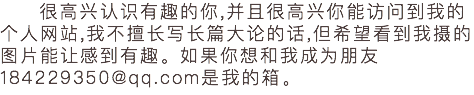
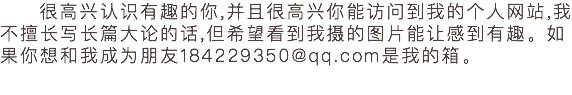
1

diff --git a/css/iningsun.css b/css/iningsun.css
@@ -1,1 +1,1 @@
-.version.iningsun{color:#000003;background-color:#815C4E;}#page{background-color:transparent;background-image:none;z-index:1;margin-left:auto;border-color:#000000;width:100%;border-width:0px;margin-right:auto;}#pu5481{z-index:24;}#u5481{background-color:transparent;z-index:24;position:relative;margin-right:-10000px;}#u5230-4{z-index:4;position:relative;margin-right:-10000px;}#u5230-4_img{vertical-align:top;display:block;}#u5169{background-color:transparent;z-index:2;position:relative;}#pu5271{z-index:8;}#u5271{background-color:transparent;z-index:8;position:relative;margin-right:-10000px;}#u5373{background-color:transparent;z-index:16;position:relative;margin-right:-10000px;}#u5391{background-color:transparent;z-index:18;position:relative;}#slideshowu5535{z-index:26;position:relative;margin-right:-10000px;}#u5553{background-color:transparent;width:100%;position:absolute;}#u5553popup{width:100%;z-index:27;}#u5558{background-color:transparent;z-index:28;position:relative;border-color:transparent;width:100%;border-width:0px;min-height:5px;margin-right:-10000px;}#u5865{background-color:transparent;z-index:30;position:relative;border-color:transparent;width:100%;border-width:0px;min-height:5px;margin-right:-10000px;}#u5952{background-color:transparent;z-index:32;position:relative;border-color:transparent;width:100%;border-width:0px;min-height:5px;margin-right:-10000px;}#u6102{background-color:transparent;z-index:34;position:relative;border-color:transparent;width:100%;border-width:0px;min-height:5px;margin-right:-10000px;}#u6177{background-color:transparent;z-index:36;position:relative;border-color:transparent;width:100%;border-width:0px;min-height:5px;margin-right:-10000px;}#u6252{background-color:transparent;z-index:38;position:relative;border-color:transparent;width:100%;border-width:0px;min-height:5px;margin-right:-10000px;}#u6466{background-color:transparent;z-index:40;position:relative;border-color:transparent;width:100%;border-width:0px;min-height:5px;margin-right:-10000px;}#u6541{background-color:transparent;z-index:42;position:relative;border-color:transparent;width:100%;border-width:0px;min-height:5px;margin-right:-10000px;}#u6791{background-color:transparent;z-index:44;position:relative;border-color:transparent;width:100%;border-width:0px;min-height:5px;margin-right:-10000px;}#u7127{background-color:transparent;z-index:46;position:relative;border-color:transparent;width:100%;border-width:0px;min-height:5px;margin-right:-10000px;}#pu5560-4{z-index:52;}#u5560-4popup{height:40px;z-index:52;margin-right:-10000px;}#u5543-4popup{height:40px;z-index:48;margin-right:-10000px;}#u5543-3{text-align:center;font-family:Helvetica, Helvetica Neue, Arial, sans-serif;line-height:20px;}#u5543{color:#999999;}#u5560-4,#u5543-4,#u5552-4{background-color:#FFFFFF;min-height:20px;border-color:transparent;padding-bottom:10px;width:100%;border-width:0px;position:absolute;padding-top:10px;}#u5552-4popup{height:40px;z-index:56;margin-right:-10000px;}#u5560-3,#u5552-3{line-height:20px;color:#999999;text-align:center;font-family:Helvetica, Helvetica Neue, Arial, sans-serif;}.SSFirstButton,.SSPreviousButton,.SSNextButton,.SSLastButton,.SSSlideLink,.SSCloseButton{cursor:pointer;}.SSSlideLoading{background:url("../images/loading.gif?crc=3815509949") no-repeat center center;}#u5321{background-color:transparent;z-index:60;position:relative;margin-right:-10000px;}#u5339{background-color:transparent;z-index:62;position:relative;margin-right:-10000px;}#u5481_img,#u5169_img,#u5271_img,#u5373_img,#u5391_img,#u5558_img,#u5865_img,#u5952_img,#u6102_img,#u6177_img,#u6252_img,#u6466_img,#u6541_img,#u6791_img,#u7127_img,#u5339_img{width:100%;}#u5306{background-color:#FFFFFF;z-index:64;position:relative;margin-right:-10000px;}#u5366-6{z-index:10;display:block;vertical-align:top;position:relative;}#u5418-4{background-color:transparent;z-index:20;font-size:10px;position:relative;line-height:12px;}.html{background-color:#FFFFFF;}body{position:relative;}@media (min-width: 1025px), print{#muse_css_mq{background-color:#FFFFFF;}#bp_infinity.active{display:block;}#page{min-height:1152px;max-width:1480px;}#ppu5481{z-index:0;margin-right:-10000px;margin-top:-76px;width:89.94%;margin-left:-5.28%;}#pu5481{width:64.69%;}#u5481{width:39.61%;}#u5169{margin-right:-10000px;margin-top:146px;width:14.17%;left:85.84%;}#pu5271{margin-top:26px;width:76.86%;margin-left:23.07%;}#u5271{margin-top:47px;width:91.21%;left:3.82%;}#u5391{-webkit-transform:matrix(0,-1,1,0,-144,169);-ms-transform:matrix(0,-1,1,0,-144,169);transform:matrix(0,-1,1,0,-144,169);margin-right:-10000px;margin-top:-131px;width:2.35%;left:48.39%;}#slideshowu5535{padding-bottom:0px;margin-top:46px;width:92.28%;left:3.82%;}#u5553popup{height:498px;}#pu5560-4{margin-top:34px;width:38.67%;margin-left:29.14%;}#u5560-4popup{width:21.37%;}#u5560-3{margin-left:12.78%;margin-right:12.779552715654951%;}#u5543-4popup{width:38.09%;margin-left:31.79%;}#u5543-3{margin-left:7.21%;margin-right:7.207207207207207%;}#u5552-4popup{width:22.74%;margin-left:77.27%;}#u5552-3{margin-left:12.02%;margin-right:12.012012012012011%;}#u5321{-webkit-transform:matrix(0.9945,-0.1045,0.1045,0.9945,-6,6);-ms-transform:matrix(0.9945,-0.1045,0.1045,0.9945,-6,6);transform:matrix(0.9945,-0.1045,0.1045,0.9945,-6,6);margin-top:23px;width:11.54%;left:0.88%;}#u5339{-webkit-transform:matrix(0.9945,-0.1045,0.1045,0.9945,-6,6);-ms-transform:matrix(0.9945,-0.1045,0.1045,0.9945,-6,6);transform:matrix(0.9945,-0.1045,0.1045,0.9945,-6,6);margin-top:437px;width:11.54%;left:87.98%;}#u5306{height:27px;-webkit-transform:matrix(0.6293,-0.7771,0.7771,0.6293,10,48);-ms-transform:matrix(0.6293,-0.7771,0.7771,0.6293,10,48);transform:matrix(0.6293,-0.7771,0.7771,0.6293,10,48);margin-top:38px;width:10.86%;left:-0.98%;}#u5366-6{margin-top:72px;width:35.62%;margin-left:42.83%;}#u5418-4{min-height:12px;margin-top:102px;width:18.04%;margin-left:6.62%;}#u5373{margin-top:314px;width:1.63%;left:84.67%;}#u5230-4{margin-top:24px;width:7.37%;left:88.38%;}#slideshowu5535_position_content,#u5321_img,#u5230-4_img{width:100%;}.css_verticalspacer .verticalspacer{height:calc(100vh - 1151px);}}@media (min-width: 769px) and (max-width: 1024px){#muse_css_mq{background-color:#000400;}#bp_1024.active{display:block;}#page{min-height:987.6000000000004px;padding-bottom:0px;max-width:1024px;}#page_position_content{margin-top:-62px;padding-bottom:75px;width:100%;}#pu5481{width:106.94%;margin-left:-8.11%;}#u5481{width:26.4%;}#u5169{margin-right:-10000px;margin-top:146px;width:11.24%;left:50.96%;}#u5230-4{margin-top:84px;width:12.61%;left:87.4%;}#pu5271{margin-top:44px;width:79.2%;margin-left:12.21%;}#u5271{margin-top:43px;width:90.26%;left:4.57%;}#u5373{margin-top:57px;width:2.47%;left:97.54%;}#u5391{-webkit-transform:matrix(0,-1,1,0,-160,187);-ms-transform:matrix(0,-1,1,0,-160,187);transform:matrix(0,-1,1,0,-160,187);margin-right:-10000px;margin-top:-153px;width:3.33%;left:48.96%;}#slideshowu5535{margin-top:43px;width:90.39%;left:4.44%;}#u5553popup{height:390px;}#pu5560-4{margin-top:13px;width:33.97%;margin-left:30.84%;}#u5560-4popup{width:23.3%;}#u5543-4popup{width:38.56%;margin-left:30.93%;}#u5543-3{margin-left:10.42%;margin-right:10.416666666666668%;}#u5552-4popup{width:23.3%;margin-left:77.11%;}#u5560-3,#u5552-3{margin-left:17.37%;margin-right:17.36111111111111%;}#u5321{-webkit-transform:matrix(0.9945,-0.1045,0.1045,0.9945,-4,4);-ms-transform:matrix(0.9945,-0.1045,0.1045,0.9945,-4,4);transform:matrix(0.9945,-0.1045,0.1045,0.9945,-4,4);margin-top:34px;width:10.12%;left:3.33%;}#u5230-4_img,#u5321_img{width:100%;}#u5339{-webkit-transform:matrix(0.9945,-0.1045,0.1045,0.9945,-4,4);-ms-transform:matrix(0.9945,-0.1045,0.1045,0.9945,-4,4);transform:matrix(0.9945,-0.1045,0.1045,0.9945,-4,4);margin-top:368px;width:10.12%;left:87.3%;}#u5306{height:40px;-webkit-transform:matrix(0.6293,-0.7771,0.7771,0.6293,0,40);-ms-transform:matrix(0.6293,-0.7771,0.7771,0.6293,0,40);transform:matrix(0.6293,-0.7771,0.7771,0.6293,0,40);margin-top:25px;width:10.24%;}#pu5418-4{z-index:20;margin-top:55px;width:74.13%;margin-left:1.18%;}#u5418-4{min-height:32px;margin-right:-10000px;margin-top:70px;width:21.88%;}#u5366-6{margin-right:-10000px;width:61.8%;left:38.21%;}.css_verticalspacer .verticalspacer{height:calc(100vh - 987px);}body{overflow-x:hidden;}}@media (min-width: 681px) and (max-width: 768px){#muse_css_mq{background-color:#000300;}#bp_768.active{display:block;}#page{min-height:855.5000000000005px;padding-bottom:0px;max-width:768px;}#page_position_content{margin-top:-43px;width:100%;}#pu5481{width:104.69%;margin-left:-7.04%;}#u5481{width:27%;}#u5169{margin-right:-10000px;margin-top:140px;width:12.57%;left:50.25%;}#u5230-4{margin-top:62px;width:12.94%;left:87.07%;}#u5230-4_img{width:99.04%;}#pu5271{margin-top:48px;width:94.8%;margin-left:4.04%;}#u5373{margin-top:58px;width:2.61%;left:96.43%;}#u5391{-webkit-transform:matrix(0,-1,1,0,-146,171);-ms-transform:matrix(0,-1,1,0,-146,171);transform:matrix(0,-1,1,0,-146,171);margin-right:-10000px;margin-top:-145px;width:3.44%;left:49.59%;}#u5271,#slideshowu5535{margin-top:30px;width:89.29%;left:4.95%;}#u5553popup{height:346px;}#pu5560-4{margin-top:24px;width:30.16%;margin-left:34.93%;}#u5560-4popup{width:21.94%;}#u5543-4popup{width:36.74%;margin-left:31.64%;}#u5543-3{margin-left:13.89%;margin-right:13.88888888888889%;}#u5552-4popup{width:21.94%;margin-left:78.07%;}#u5560-3,#u5552-3{margin-left:23.15%;margin-right:23.148148148148145%;}#u5321{-webkit-transform:matrix(0.9945,-0.1045,0.1045,0.9945,-5,6);-ms-transform:matrix(0.9945,-0.1045,0.1045,0.9945,-5,6);transform:matrix(0.9945,-0.1045,0.1045,0.9945,-5,6);margin-top:18px;width:13.88%;left:0.69%;}#u5321_img{padding-left:11.881188118811881%;padding-right:8.91089108910891%;padding-bottom:20.792079207920793%;width:79.21%;}#u5339{-webkit-transform:matrix(0.9945,-0.1045,0.1045,0.9945,-5,6);-ms-transform:matrix(0.9945,-0.1045,0.1045,0.9945,-5,6);transform:matrix(0.9945,-0.1045,0.1045,0.9945,-5,6);margin-top:305px;width:14.02%;left:85.31%;}#u5306{height:25px;-webkit-transform:matrix(0.6293,-0.7771,0.7771,0.6293,5,36);-ms-transform:matrix(0.6293,-0.7771,0.7771,0.6293,5,36);transform:matrix(0.6293,-0.7771,0.7771,0.6293,5,36);margin-top:26px;width:10.99%;left:-0.69%;}#u5366-6{margin-top:24px;width:38.55%;margin-left:32.43%;}#u5418-4{min-height:32px;margin-top:59px;width:16.28%;margin-left:1.18%;}.css_verticalspacer .verticalspacer{height:calc(100vh - 912px);}body{overflow-x:hidden;}}@media (min-width: 481px) and (max-width: 680px){#muse_css_mq{background-color:#0002a8;}#bp_680.active{display:block;}#page{min-height:855.5000000000005px;padding-bottom:0px;max-width:680px;}#page_position_content{margin-top:-43px;width:100%;}#pu5481{width:105.59%;margin-left:-7.06%;}#u5481{width:26.75%;}#u5169{margin-right:-10000px;margin-top:114px;width:11.56%;left:52.09%;}#u5230-4{margin-top:60px;width:12.82%;left:87.19%;}#u5230-4_img{width:98.92%;}#u5391{-webkit-transform:matrix(0,-1,1,0,-96,113);-ms-transform:matrix(0,-1,1,0,-96,113);transform:matrix(0,-1,1,0,-96,113);top:-58px;margin-bottom:-112px;width:2.36%;margin-left:51.33%;}#pu5271{margin-top:-31px;width:87.65%;margin-left:6.48%;}#u5271{margin-top:27px;width:90.78%;left:4.37%;}#u5373{margin-top:3px;width:2.69%;left:97.32%;}#slideshowu5535{padding-bottom:0px;margin-top:28px;width:90.78%;left:4.37%;}#u5553popup{height:320px;}#pu5560-4{margin-top:21px;width:33.46%;margin-left:34.02%;}#u5560-4popup{width:21%;}#u5543-4popup{width:35.36%;margin-left:32.6%;}#u5543-3{margin-left:15.69%;margin-right:15.686274509803921%;}#u5552-4popup{width:21%;margin-left:79.01%;}#u5560-3,#u5552-3{margin-left:26.15%;margin-right:26.143790849673206%;}#u5321{-webkit-transform:matrix(0.9945,-0.1045,0.1045,0.9945,-4,4);-ms-transform:matrix(0.9945,-0.1045,0.1045,0.9945,-4,4);transform:matrix(0.9945,-0.1045,0.1045,0.9945,-4,4);margin-top:15px;width:12.09%;left:1.68%;}#u5321_img{width:100%;}#u5339{-webkit-transform:matrix(0.9945,-0.1045,0.1045,0.9945,-3,3);-ms-transform:matrix(0.9945,-0.1045,0.1045,0.9945,-3,3);transform:matrix(0.9945,-0.1045,0.1045,0.9945,-3,3);margin-top:299px;width:9.07%;left:87.59%;}#u5306{height:27px;-webkit-transform:matrix(0.6293,-0.7771,0.7771,0.6293,-1,25);-ms-transform:matrix(0.6293,-0.7771,0.7771,0.6293,-1,25);transform:matrix(0.6293,-0.7771,0.7771,0.6293,-1,25);margin-top:15px;width:8.56%;left:0.17%;}#u5366-6{margin-top:32px;width:38.53%;margin-left:32.06%;}#u5418-4{min-height:32px;margin-top:75px;width:16.18%;margin-left:1.18%;}.css_verticalspacer .verticalspacer{height:calc(100vh - 912px);}body{overflow-x:hidden;}}@media (max-width: 480px){#muse_css_mq{background-color:#0001e0;}#bp_480.active{display:block;}#page{min-height:887.9500000000004px;padding-bottom:0px;max-width:480px;}#page_position_content{margin-top:-29px;padding-bottom:9px;width:100%;}#pu5481{width:103.96%;margin-left:-8.13%;}#u5481{width:32.67%;}#u5230-4{width:82px;margin-top:43px;left:83.57%;}#u5169{margin-top:3px;width:16.25%;margin-left:44.38%;}#pu5271{margin-top:57px;width:97.71%;margin-left:0.84%;}#u5271{margin-top:27px;width:92.54%;left:4.48%;}#u5373{margin-top:10px;width:2.56%;left:97.45%;}#u5391{-webkit-transform:matrix(0,-1,1,0,-107,125);-ms-transform:matrix(0,-1,1,0,-107,125);transform:matrix(0,-1,1,0,-107,125);margin-right:-10000px;margin-top:-106px;width:3.84%;left:48.41%;}#slideshowu5535{margin-top:27px;width:93.18%;left:3.84%;}#u5553popup{height:231px;}#pu5560-4{margin-top:59px;width:36.16%;margin-left:33.64%;}#u5560-4popup{width:17.09%;}#u5543-4popup{width:41.78%;margin-left:29.12%;}#u5543-3{margin-left:15.16%;margin-right:15.151515151515152%;}#u5552-4popup{width:17.09%;margin-left:82.92%;}#u5560-3,#u5552-3{margin-left:37.04%;margin-right:37.03703703703704%;}#u5321{margin-top:27px;width:8.53%;left:3.84%;}#u5321_img{width:100%;}#u5339{-webkit-transform:matrix(0.9945,-0.1045,0.1045,0.9945,-3,3);-ms-transform:matrix(0.9945,-0.1045,0.1045,0.9945,-3,3);transform:matrix(0.9945,-0.1045,0.1045,0.9945,-3,3);margin-top:217px;width:11.52%;left:88.06%;}#u5306{height:23px;-webkit-transform:matrix(0.7193,-0.6947,0.6947,0.7193,-1,20);-ms-transform:matrix(0.7193,-0.6947,0.6947,0.7193,-1,20);transform:matrix(0.7193,-0.6947,0.6947,0.7193,-1,20);margin-top:14px;width:10.45%;left:0.22%;}#u5366-6{margin-top:70px;width:62.92%;margin-left:18.55%;}#u5418-4{min-height:7px;margin-top:102px;width:40%;margin-left:5.21%;}.css_verticalspacer .verticalspacer{height:calc(100vh - 918px);}body{overflow-x:hidden;min-width:320px;padding-bottom:31px;}}
+.version.iningsun{color:#000014;background-color:#A7DF29;}#page{background-color:transparent;background-image:none;z-index:1;margin-left:auto;border-color:#000000;width:100%;border-width:0px;margin-right:auto;}#pu5481{z-index:24;}#u5481{background-color:transparent;z-index:24;position:relative;margin-right:-10000px;}#u5230-4{z-index:4;position:relative;margin-right:-10000px;}#u5230-4_img{vertical-align:top;display:block;}#u5169{background-color:transparent;z-index:2;position:relative;}#pu5271{z-index:8;}#u5271{background-color:transparent;z-index:8;position:relative;margin-right:-10000px;}#u5373{background-color:transparent;z-index:16;position:relative;margin-right:-10000px;}#u5391{background-color:transparent;z-index:18;position:relative;}#slideshowu5535{z-index:26;position:relative;margin-right:-10000px;}#u5553{background-color:transparent;width:100%;position:absolute;}#u5553popup{width:100%;z-index:27;}#u5558{background-color:transparent;z-index:28;position:relative;border-color:transparent;width:100%;border-width:0px;min-height:5px;margin-right:-10000px;}#u5865{background-color:transparent;z-index:30;position:relative;border-color:transparent;width:100%;border-width:0px;min-height:5px;margin-right:-10000px;}#u5952{background-color:transparent;z-index:32;position:relative;border-color:transparent;width:100%;border-width:0px;min-height:5px;margin-right:-10000px;}#u6102{background-color:transparent;z-index:34;position:relative;border-color:transparent;width:100%;border-width:0px;min-height:5px;margin-right:-10000px;}#u6177{background-color:transparent;z-index:36;position:relative;border-color:transparent;width:100%;border-width:0px;min-height:5px;margin-right:-10000px;}#u6252{background-color:transparent;z-index:38;position:relative;border-color:transparent;width:100%;border-width:0px;min-height:5px;margin-right:-10000px;}#u6466{background-color:transparent;z-index:40;position:relative;border-color:transparent;width:100%;border-width:0px;min-height:5px;margin-right:-10000px;}#u6541{background-color:transparent;z-index:42;position:relative;border-color:transparent;width:100%;border-width:0px;min-height:5px;margin-right:-10000px;}#u6791{background-color:transparent;z-index:44;position:relative;border-color:transparent;width:100%;border-width:0px;min-height:5px;margin-right:-10000px;}#u7127{background-color:transparent;z-index:46;position:relative;border-color:transparent;width:100%;border-width:0px;min-height:5px;margin-right:-10000px;}#pu5560-4{z-index:52;}#u5560-4popup{height:40px;z-index:52;margin-right:-10000px;}#u5543-4popup{height:40px;z-index:48;margin-right:-10000px;}#u5543-3{text-align:center;font-family:Helvetica, Helvetica Neue, Arial, sans-serif;line-height:20px;}#u5543{color:#999999;}#u5560-4,#u5543-4,#u5552-4{background-color:#FFFFFF;min-height:20px;border-color:transparent;padding-bottom:10px;width:100%;border-width:0px;position:absolute;padding-top:10px;}#u5552-4popup{height:40px;z-index:56;margin-right:-10000px;}#u5560-3,#u5552-3{line-height:20px;color:#999999;text-align:center;font-family:Helvetica, Helvetica Neue, Arial, sans-serif;}.SSFirstButton,.SSPreviousButton,.SSNextButton,.SSLastButton,.SSSlideLink,.SSCloseButton{cursor:pointer;}.SSSlideLoading{background:url("../images/loading.gif?crc=3815509949") no-repeat center center;}#u5321{background-color:transparent;z-index:60;position:relative;margin-right:-10000px;}#u5339{background-color:transparent;z-index:62;position:relative;margin-right:-10000px;}#u5481_img,#u5169_img,#u5271_img,#u5373_img,#u5391_img,#u5558_img,#u5865_img,#u5952_img,#u6102_img,#u6177_img,#u6252_img,#u6466_img,#u6541_img,#u6791_img,#u7127_img,#u5339_img{width:100%;}#u5306{background-color:#FFFFFF;z-index:64;position:relative;margin-right:-10000px;}#u5366-6{z-index:10;display:block;vertical-align:top;position:relative;}#u5418-4{background-color:transparent;z-index:20;font-size:10px;position:relative;line-height:12px;}.html{background-color:#FFFFFF;}body{position:relative;}@media (min-width: 1025px), print{#muse_css_mq{background-color:#FFFFFF;}#bp_infinity.active{display:block;}#page{min-height:1152px;max-width:1480px;}#ppu5481{z-index:0;padding-bottom:0px;margin-right:-10000px;margin-top:-76px;width:89.94%;margin-left:-5.28%;}#pu5481{width:64.69%;}#u5481{width:39.61%;}#u5169{margin-right:-10000px;margin-top:146px;width:14.17%;left:85.84%;}#pu5271{margin-top:26px;width:76.86%;margin-left:23.07%;}#u5271{margin-top:47px;width:91.21%;left:3.82%;}#u5391{-webkit-transform:matrix(0,-1,1,0,-144,169);-ms-transform:matrix(0,-1,1,0,-144,169);transform:matrix(0,-1,1,0,-144,169);margin-right:-10000px;margin-top:-131px;width:2.35%;left:48.39%;}#slideshowu5535{padding-bottom:0px;margin-top:46px;width:92.28%;left:3.82%;}#u5553popup{height:498px;}#pu5560-4{margin-top:17px;width:34.33%;margin-left:32.95%;}#u5560-4popup{width:24.08%;}#u5560-3{margin-left:12.78%;margin-right:12.779552715654951%;}#u5543-4popup{width:42.91%;margin-left:28.71%;}#u5543-3{margin-left:7.21%;margin-right:7.207207207207207%;}#u5552-4popup{width:25.62%;margin-left:74.39%;}#u5552-3{margin-left:12.02%;margin-right:12.012012012012011%;}#u5321{-webkit-transform:matrix(0.9945,-0.1045,0.1045,0.9945,-6,6);-ms-transform:matrix(0.9945,-0.1045,0.1045,0.9945,-6,6);transform:matrix(0.9945,-0.1045,0.1045,0.9945,-6,6);margin-top:23px;width:11.54%;left:0.88%;}#u5339{-webkit-transform:matrix(0.9945,-0.1045,0.1045,0.9945,-6,6);-ms-transform:matrix(0.9945,-0.1045,0.1045,0.9945,-6,6);transform:matrix(0.9945,-0.1045,0.1045,0.9945,-6,6);margin-top:437px;width:11.54%;left:87.98%;}#u5306{height:27px;-webkit-transform:matrix(0.6293,-0.7771,0.7771,0.6293,10,48);-ms-transform:matrix(0.6293,-0.7771,0.7771,0.6293,10,48);transform:matrix(0.6293,-0.7771,0.7771,0.6293,10,48);margin-top:38px;width:10.86%;left:-0.98%;}#pu5418-4{z-index:20;margin-top:44px;width:70.18%;margin-left:12.78%;}#u5418-4{min-height:12px;margin-right:-10000px;margin-top:53px;width:25.7%;}#u5366-6{margin-right:-10000px;width:61.25%;left:38.76%;}#u5373{margin-top:314px;width:1.63%;left:84.67%;}#u5230-4{margin-top:24px;width:7.37%;left:88.38%;}#slideshowu5535_position_content,#u5321_img,#u5230-4_img{width:100%;}.css_verticalspacer .verticalspacer{height:calc(100vh - 1151px);}}@media (min-width: 769px) and (max-width: 1024px){#muse_css_mq{background-color:#000400;}#bp_1024.active{display:block;}#page{min-height:987.5500000000003px;padding-bottom:0px;max-width:1024px;}#page_position_content{margin-top:-62px;padding-bottom:15px;width:100%;}#pu5481{width:106.94%;margin-left:-8.11%;}#u5481{width:26.4%;}#u5169{margin-right:-10000px;margin-top:146px;width:11.24%;left:50.96%;}#u5230-4{margin-top:84px;width:12.61%;left:87.4%;}#pu5271{margin-top:44px;width:79.2%;margin-left:12.21%;}#u5271{margin-top:43px;width:90.26%;left:4.57%;}#u5373{margin-top:57px;width:2.47%;left:97.54%;}#u5391{-webkit-transform:matrix(0,-1,1,0,-160,187);-ms-transform:matrix(0,-1,1,0,-160,187);transform:matrix(0,-1,1,0,-160,187);margin-right:-10000px;margin-top:-153px;width:3.33%;left:48.96%;}#slideshowu5535{margin-top:43px;width:90.39%;left:4.44%;}#u5553popup{height:390px;}#pu5560-4{margin-top:13px;width:33.97%;margin-left:30.84%;}#u5560-4popup{width:23.3%;}#u5543-4popup{width:38.56%;margin-left:30.93%;}#u5543-3{margin-left:10.42%;margin-right:10.416666666666668%;}#u5552-4popup{width:23.3%;margin-left:77.11%;}#u5560-3,#u5552-3{margin-left:17.37%;margin-right:17.36111111111111%;}#u5321{-webkit-transform:matrix(0.9945,-0.1045,0.1045,0.9945,-4,4);-ms-transform:matrix(0.9945,-0.1045,0.1045,0.9945,-4,4);transform:matrix(0.9945,-0.1045,0.1045,0.9945,-4,4);margin-top:34px;width:10.12%;left:3.33%;}#u5230-4_img,#u5321_img{width:100%;}#u5339{-webkit-transform:matrix(0.9945,-0.1045,0.1045,0.9945,-4,4);-ms-transform:matrix(0.9945,-0.1045,0.1045,0.9945,-4,4);transform:matrix(0.9945,-0.1045,0.1045,0.9945,-4,4);margin-top:368px;width:10.12%;left:87.3%;}#u5306{height:40px;-webkit-transform:matrix(0.6293,-0.7771,0.7771,0.6293,0,40);-ms-transform:matrix(0.6293,-0.7771,0.7771,0.6293,0,40);transform:matrix(0.6293,-0.7771,0.7771,0.6293,0,40);margin-top:25px;width:10.24%;}#u5366-6{margin-top:55px;width:45.81%;margin-left:29.5%;}#u5418-4{min-height:32px;margin-top:28px;width:16.22%;margin-left:2.15%;}.css_verticalspacer .verticalspacer{height:calc(100vh - 987px);}body{overflow-x:hidden;}}@media (min-width: 681px) and (max-width: 768px){#muse_css_mq{background-color:#000300;}#bp_768.active{display:block;}#page{min-height:855.5000000000005px;padding-bottom:0px;max-width:768px;}#page_position_content{margin-top:-43px;width:100%;}#pu5481{width:104.69%;margin-left:-7.04%;}#u5481{width:27%;}#u5169{margin-right:-10000px;margin-top:140px;width:12.57%;left:50.25%;}#u5230-4{margin-top:62px;width:12.94%;left:87.07%;}#u5230-4_img{width:99.04%;}#pu5271{margin-top:48px;width:94.8%;margin-left:4.04%;}#u5373{margin-top:58px;width:2.61%;left:96.43%;}#u5391{-webkit-transform:matrix(0,-1,1,0,-146,171);-ms-transform:matrix(0,-1,1,0,-146,171);transform:matrix(0,-1,1,0,-146,171);margin-right:-10000px;margin-top:-145px;width:3.44%;left:49.59%;}#u5271,#slideshowu5535{margin-top:30px;width:89.29%;left:4.95%;}#u5553popup{height:346px;}#pu5560-4{margin-top:24px;width:30.16%;margin-left:34.93%;}#u5560-4popup{width:21.94%;}#u5543-4popup{width:36.74%;margin-left:31.64%;}#u5543-3{margin-left:13.89%;margin-right:13.88888888888889%;}#u5552-4popup{width:21.94%;margin-left:78.07%;}#u5560-3,#u5552-3{margin-left:23.15%;margin-right:23.148148148148145%;}#u5321{-webkit-transform:matrix(0.9945,-0.1045,0.1045,0.9945,-5,6);-ms-transform:matrix(0.9945,-0.1045,0.1045,0.9945,-5,6);transform:matrix(0.9945,-0.1045,0.1045,0.9945,-5,6);margin-top:18px;width:13.88%;left:0.69%;}#u5321_img{padding-left:11.881188118811881%;padding-right:8.91089108910891%;padding-bottom:20.792079207920793%;width:79.21%;}#u5339{-webkit-transform:matrix(0.9945,-0.1045,0.1045,0.9945,-5,6);-ms-transform:matrix(0.9945,-0.1045,0.1045,0.9945,-5,6);transform:matrix(0.9945,-0.1045,0.1045,0.9945,-5,6);margin-top:305px;width:14.02%;left:85.31%;}#u5306{height:25px;-webkit-transform:matrix(0.6293,-0.7771,0.7771,0.6293,5,36);-ms-transform:matrix(0.6293,-0.7771,0.7771,0.6293,5,36);transform:matrix(0.6293,-0.7771,0.7771,0.6293,5,36);margin-top:26px;width:10.99%;left:-0.69%;}#u5366-6{margin-top:24px;width:38.55%;margin-left:32.43%;}#u5418-4{min-height:32px;margin-top:59px;width:16.28%;margin-left:1.18%;}.css_verticalspacer .verticalspacer{height:calc(100vh - 912px);}body{overflow-x:hidden;}}@media (min-width: 481px) and (max-width: 680px){#muse_css_mq{background-color:#0002a8;}#bp_680.active{display:block;}#page{min-height:855.5000000000005px;padding-bottom:0px;max-width:680px;}#page_position_content{margin-top:-43px;width:100%;}#pu5481{width:105.59%;margin-left:-7.06%;}#u5481{width:26.75%;}#u5169{margin-right:-10000px;margin-top:114px;width:11.56%;left:52.09%;}#u5230-4{margin-top:60px;width:12.82%;left:87.19%;}#u5230-4_img{width:98.92%;}#u5391{-webkit-transform:matrix(0,-1,1,0,-96,113);-ms-transform:matrix(0,-1,1,0,-96,113);transform:matrix(0,-1,1,0,-96,113);top:-58px;margin-bottom:-112px;width:2.36%;margin-left:51.33%;}#pu5271{margin-top:-31px;width:87.65%;margin-left:6.48%;}#u5271{margin-top:27px;width:90.78%;left:4.37%;}#u5373{margin-top:3px;width:2.69%;left:97.32%;}#slideshowu5535{padding-bottom:0px;margin-top:28px;width:90.78%;left:4.37%;}#u5553popup{height:320px;}#pu5560-4{margin-top:21px;width:33.46%;margin-left:34.02%;}#u5560-4popup{width:21%;}#u5543-4popup{width:35.36%;margin-left:32.6%;}#u5543-3{margin-left:15.69%;margin-right:15.686274509803921%;}#u5552-4popup{width:21%;margin-left:79.01%;}#u5560-3,#u5552-3{margin-left:26.15%;margin-right:26.143790849673206%;}#u5321{-webkit-transform:matrix(0.9945,-0.1045,0.1045,0.9945,-4,4);-ms-transform:matrix(0.9945,-0.1045,0.1045,0.9945,-4,4);transform:matrix(0.9945,-0.1045,0.1045,0.9945,-4,4);margin-top:15px;width:12.09%;left:1.68%;}#u5321_img{width:100%;}#u5339{-webkit-transform:matrix(0.9945,-0.1045,0.1045,0.9945,-3,3);-ms-transform:matrix(0.9945,-0.1045,0.1045,0.9945,-3,3);transform:matrix(0.9945,-0.1045,0.1045,0.9945,-3,3);margin-top:299px;width:9.07%;left:87.59%;}#u5306{height:27px;-webkit-transform:matrix(0.6293,-0.7771,0.7771,0.6293,-1,25);-ms-transform:matrix(0.6293,-0.7771,0.7771,0.6293,-1,25);transform:matrix(0.6293,-0.7771,0.7771,0.6293,-1,25);margin-top:15px;width:8.56%;left:0.17%;}#u5366-6{margin-top:32px;width:38.53%;margin-left:32.06%;}#u5418-4{min-height:32px;margin-top:75px;width:16.18%;margin-left:1.18%;}.css_verticalspacer .verticalspacer{height:calc(100vh - 912px);}body{overflow-x:hidden;}}@media (max-width: 480px){#muse_css_mq{background-color:#0001e0;}#bp_480.active{display:block;}#page{min-height:887.9500000000004px;padding-bottom:0px;max-width:480px;}#page_position_content{margin-top:-29px;padding-bottom:9px;width:100%;}#pu5481{width:103.96%;margin-left:-8.13%;}#u5481{width:32.67%;}#u5230-4{width:82px;margin-top:43px;left:83.57%;}#u5169{margin-top:3px;width:16.25%;margin-left:44.38%;}#pu5271{margin-top:57px;width:97.71%;margin-left:0.84%;}#u5271{margin-top:27px;width:92.54%;left:4.48%;}#u5373{margin-top:10px;width:2.56%;left:97.45%;}#u5391{-webkit-transform:matrix(0,-1,1,0,-107,125);-ms-transform:matrix(0,-1,1,0,-107,125);transform:matrix(0,-1,1,0,-107,125);margin-right:-10000px;margin-top:-106px;width:3.84%;left:48.41%;}#slideshowu5535{margin-top:27px;width:93.18%;left:3.84%;}#u5553popup{height:231px;}#pu5560-4{margin-top:59px;width:36.16%;margin-left:33.64%;}#u5560-4popup{width:17.09%;}#u5543-4popup{width:41.78%;margin-left:29.12%;}#u5543-3{margin-left:15.16%;margin-right:15.151515151515152%;}#u5552-4popup{width:17.09%;margin-left:82.92%;}#u5560-3,#u5552-3{margin-left:37.04%;margin-right:37.03703703703704%;}#u5321{margin-top:27px;width:8.53%;left:3.84%;}#u5321_img{width:100%;}#u5339{-webkit-transform:matrix(0.9945,-0.1045,0.1045,0.9945,-3,3);-ms-transform:matrix(0.9945,-0.1045,0.1045,0.9945,-3,3);transform:matrix(0.9945,-0.1045,0.1045,0.9945,-3,3);margin-top:217px;width:11.52%;left:88.06%;}#u5306{height:23px;-webkit-transform:matrix(0.7193,-0.6947,0.6947,0.7193,-1,20);-ms-transform:matrix(0.7193,-0.6947,0.6947,0.7193,-1,20);transform:matrix(0.7193,-0.6947,0.6947,0.7193,-1,20);margin-top:14px;width:10.45%;left:0.22%;}#u5366-6{margin-top:70px;width:62.92%;margin-left:18.55%;}#u5418-4{min-height:7px;margin-top:102px;width:40%;margin-left:5.21%;}.css_verticalspacer .verticalspacer{height:calc(100vh - 918px);}body{overflow-x:hidden;min-width:320px;padding-bottom:31px;}}

diff --git a/iningsun.html b/iningsun.html
@@ -11,16 +11,16 @@
 document.documentElement.className = document.documentElement.className.replace(/\bnojs\b/g, 'js');
 
 // Check that all required assets are uploaded and up-to-date
-if(typeof Muse == "undefined") window.Muse = {}; window.Muse.assets = {"required":["museutils.js", "museconfig.js", "webpro.js", "musewpslideshow.js", "jquery.museoverlay.js", "touchswipe.js", "jquery.watch.js", "jquery.museresponsive.js", "require.js", "iningsun.css"], "outOfDate":[]};
+if(typeof Muse == "undefined") window.Muse = {}; window.Muse.assets = {"required":["museutils.js", "museconfig.js", "jquery.watch.js", "webpro.js", "musewpslideshow.js", "jquery.museoverlay.js", "touchswipe.js", "jquery.museresponsive.js", "require.js", "iningsun.css"], "outOfDate":[]};
 </script>
   
   <title>iningsun</title>
   <!-- CSS -->
   <link rel="stylesheet" type="text/css" href="css/site_global.css?crc=444006867"/>
-  <link rel="stylesheet" type="text/css" href="css/iningsun.css?crc=58809422" id="pagesheet"/>
+  <link rel="stylesheet" type="text/css" href="css/iningsun.css?crc=346545961" id="pagesheet"/>
   <!-- IE-only CSS -->
   <!--[if lt IE 9]>
-  <link rel="stylesheet" type="text/css" href="css/nomq_iningsun.css?crc=4096869174" id="nomq_pagesheet"/>
+  <link rel="stylesheet" type="text/css" href="css/nomq_iningsun.css?crc=3883967436" id="nomq_pagesheet"/>
   <![endif]-->
    </head>
  <body>
@@ -30,7 +30,7 @@ if(typeof Muse == "undefined") window.Muse = {}; window.Muse.assets = {"required
     <div class="clearfix grpelem" id="ppu5481"><!-- column -->
      <div class="clearfix colelem" id="pu5481"><!-- group -->
       <div class="clip_frame grpelem" id="u5481"><!-- image -->
-       <img class="block temp_no_img_src" id="u5481_img" data-orig-src="images/logo2.png?crc=3980200752" alt="" data-heightwidthratio="0.750733137829912" data-image-width="341" data-image-height="256" src="images/blank.gif?crc=4208392903"/>
+       <img class="block temp_no_img_src" id="u5481_img" data-orig-src="images/logo.png?crc=3980200752" alt="" data-heightwidthratio="0.750733137829912" data-image-width="341" data-image-height="256" src="images/blank.gif?crc=4208392903"/>
       </div>
       <div class="clip_frame grpelem" id="u5169"><!-- image -->
        <img class="block temp_no_img_src" id="u5169_img" data-orig-src="images/sun%20ining%402x.png?crc=413580125" alt="" data-heightwidthratio="1.1557377049180328" data-image-width="122" data-image-height="141" src="images/blank.gif?crc=4208392903"/>
@@ -112,16 +112,18 @@ if(typeof Muse == "undefined") window.Muse = {}; window.Muse.assets = {"required
       </div>
       <div class="grpelem" id="u5306" data-mu-ie-matrix="progid:DXImageTransform.Microsoft.Matrix(M11=0.6293,M12=0.7771,M21=-0.7771,M22=0.6293,SizingMethod='auto expand')" data-mu-ie-matrix-dx="10" data-mu-ie-matrix-dy="-38"><!-- simple frame --></div>
      </div>
-     <img class="colelem temp_no_img_src" id="u5366-6" alt="&nbsp;很高兴认识有趣的你,并且很高兴你能访问到我的个人网站,我不擅长写长篇大论的话,但希望看到我摄的图片能让感到有趣。如果你想和我成为朋友184229350@qq.com是我的箱。" data-orig-src="images/u5366-6.png?crc=3903747417" data-image-width="474" src="images/blank.gif?crc=4208392903"/><!-- rasterized frame -->
-     <div class="clearfix colelem shared_content" id="u5418-4" data-content-guid="u5418-4_content"><!-- content -->
-      <p>©copyright2018.iningsun</p>
+     <div class="clearfix colelem" id="pu5418-4"><!-- group -->
+      <div class="clearfix grpelem shared_content" id="u5418-4" data-content-guid="u5418-4_content"><!-- content -->
+       <p>©copyright2018.iningsun</p>
+      </div>
+      <img class="grpelem temp_no_img_src" id="u5366-6" alt="&nbsp;很高兴认识有趣的你,并且很高兴你能访问到我的个人网站,我不擅长写长篇大论的话,但希望看到我摄的图片能让感到有趣。如果你想和我成为朋友184229350@qq.com是我的箱。" data-orig-src="images/u5366-6.png?crc=4227698109" data-image-width="572" src="images/blank.gif?crc=4208392903"/><!-- rasterized frame -->
      </div>
     </div>
     <div class="clip_frame grpelem" id="u5373"><!-- image -->
      <img class="block temp_no_img_src" id="u5373_img" data-orig-src="images/you%20are%20really%20inter%402x.png?crc=3849232086" alt="" data-heightwidthratio="16.791666666666668" data-image-width="24" data-image-height="403" src="images/blank.gif?crc=4208392903"/>
     </div>
     <a class="nonblock nontext grpelem" id="u5230-4" href="index.html"><!-- rasterized frame --><img class="temp_no_img_src" id="u5230-4_img" alt="Home" data-orig-src="images/u5230-4.png?crc=4094519317" data-image-width="109" src="images/blank.gif?crc=4208392903"/></a>
-    <div class="verticalspacer" data-offset-top="1135" data-content-above-spacer="1135" data-content-below-spacer="16" data-sizePolicy="fixed" data-pintopage="page_fixedLeft"></div>
+    <div class="verticalspacer" data-offset-top="977" data-content-above-spacer="977" data-content-below-spacer="174" data-sizePolicy="fixed" data-pintopage="page_fixedLeft"></div>
    </div>
   </div>
   <div class="breakpoint" id="bp_1024" data-min-width="769" data-max-width="1024"><!-- responsive breakpoint node -->
@@ -129,7 +131,7 @@ if(typeof Muse == "undefined") window.Muse = {}; window.Muse.assets = {"required
     <div class="position_content" id="page_position_content">
      <div class="clearfix colelem temp_no_id" data-orig-id="pu5481"><!-- group -->
       <div class="clip_frame grpelem temp_no_id" data-orig-id="u5481"><!-- image -->
-       <img class="block temp_no_id temp_no_img_src" data-orig-src="images/logo2.png?crc=3980200752" alt="" data-heightwidthratio="0.7508650519031141" data-image-width="289" data-image-height="217" data-orig-id="u5481_img" src="images/blank.gif?crc=4208392903"/>
+       <img class="block temp_no_id temp_no_img_src" data-orig-src="images/logo.png?crc=3980200752" alt="" data-heightwidthratio="0.7508650519031141" data-image-width="289" data-image-height="217" data-orig-id="u5481_img" src="images/blank.gif?crc=4208392903"/>
       </div>
       <div class="clip_frame grpelem temp_no_id" data-orig-id="u5169"><!-- image -->
        <img class="block temp_no_id temp_no_img_src" data-orig-src="images/sun%20ining%402x.png?crc=413580125" alt="" data-heightwidthratio="1.1544715447154472" data-image-width="123" data-image-height="142" data-orig-id="u5169_img" src="images/blank.gif?crc=4208392903"/>
@@ -207,11 +209,9 @@ if(typeof Muse == "undefined") window.Muse = {}; window.Muse.assets = {"required
       </div>
       <div class="grpelem temp_no_id" data-mu-ie-matrix="progid:DXImageTransform.Microsoft.Matrix(M11=0.6293,M12=0.7771,M21=-0.7771,M22=0.6293,SizingMethod='auto expand')" data-mu-ie-matrix-dx="0" data-mu-ie-matrix-dy="-25" data-orig-id="u5306"><!-- simple frame --></div>
      </div>
-     <div class="clearfix colelem" id="pu5418-4"><!-- group -->
-      <span class="clearfix grpelem placeholder" data-placeholder-for="u5418-4_content"><!-- placeholder node --></span>
-      <img class="grpelem temp_no_id temp_no_img_src" alt="&nbsp;很高兴认识有趣的你,并且很高兴你能访问到我的个人网站,我不擅长写长篇大论的话,但希望看到我摄的图片能让感到有趣。如果你想和我成为朋友184229350@qq.com是我的箱。" data-orig-src="images/u5366-62.png?crc=3790931857" data-image-width="469" data-orig-id="u5366-6" src="images/blank.gif?crc=4208392903"/><!-- rasterized frame -->
-     </div>
-     <div class="verticalspacer" data-offset-top="913" data-content-above-spacer="912" data-content-below-spacer="75" data-sizePolicy="fixed" data-pintopage="page_fixedLeft"></div>
+     <img class="colelem temp_no_id temp_no_img_src" alt="&nbsp;很高兴认识有趣的你,并且很高兴你能访问到我的个人网站,我不擅长写长篇大论的话,但希望看到我摄的图片能让感到有趣。如果你想和我成为朋友184229350@qq.com是我的箱。" data-orig-src="images/u5366-62.png?crc=3790931857" data-image-width="469" data-orig-id="u5366-6" src="images/blank.gif?crc=4208392903"/><!-- rasterized frame -->
+     <span class="clearfix colelem placeholder" data-placeholder-for="u5418-4_content"><!-- placeholder node --></span>
+     <div class="verticalspacer" data-offset-top="913" data-content-above-spacer="973" data-content-below-spacer="14" data-sizePolicy="fixed" data-pintopage="page_fixedLeft"></div>
     </div>
    </div>
   </div>
@@ -220,7 +220,7 @@ if(typeof Muse == "undefined") window.Muse = {}; window.Muse.assets = {"required
     <div class="position_content temp_no_id" data-orig-id="page_position_content">
      <div class="clearfix colelem temp_no_id" data-orig-id="pu5481"><!-- group -->
       <div class="clip_frame grpelem temp_no_id" data-orig-id="u5481"><!-- image -->
-       <img class="block temp_no_id temp_no_img_src" data-orig-src="images/logo2.png?crc=3980200752" alt="" data-heightwidthratio="0.7511520737327189" data-image-width="217" data-image-height="163" data-orig-id="u5481_img" src="images/blank.gif?crc=4208392903"/>
+       <img class="block temp_no_id temp_no_img_src" data-orig-src="images/logo.png?crc=3980200752" alt="" data-heightwidthratio="0.7511520737327189" data-image-width="217" data-image-height="163" data-orig-id="u5481_img" src="images/blank.gif?crc=4208392903"/>
       </div>
       <div class="clip_frame grpelem temp_no_id" data-orig-id="u5169"><!-- image -->
        <img class="block temp_no_id temp_no_img_src" data-orig-src="images/sun%20ining%402x.png?crc=413580125" alt="" data-heightwidthratio="1.1584158415841583" data-image-width="101" data-image-height="117" data-orig-id="u5169_img" src="images/blank.gif?crc=4208392903"/>
@@ -309,7 +309,7 @@ if(typeof Muse == "undefined") window.Muse = {}; window.Muse.assets = {"required
     <div class="position_content temp_no_id" data-orig-id="page_position_content">
      <div class="clearfix colelem temp_no_id" data-orig-id="pu5481"><!-- group -->
       <div class="clip_frame grpelem temp_no_id" data-orig-id="u5481"><!-- image -->
-       <img class="block temp_no_id temp_no_img_src" data-orig-src="images/logo2.png?crc=3980200752" alt="" data-heightwidthratio="0.75" data-image-width="192" data-image-height="144" data-orig-id="u5481_img" src="images/blank.gif?crc=4208392903"/>
+       <img class="block temp_no_id temp_no_img_src" data-orig-src="images/logo.png?crc=3980200752" alt="" data-heightwidthratio="0.75" data-image-width="192" data-image-height="144" data-orig-id="u5481_img" src="images/blank.gif?crc=4208392903"/>
       </div>
       <div class="clip_frame grpelem temp_no_id" data-orig-id="u5169"><!-- image -->
        <img class="block temp_no_id temp_no_img_src" data-orig-src="images/sun%20ining%402x.png?crc=413580125" alt="" data-heightwidthratio="1.1566265060240963" data-image-width="83" data-image-height="96" data-orig-id="u5169_img" src="images/blank.gif?crc=4208392903"/>
@@ -398,7 +398,7 @@ if(typeof Muse == "undefined") window.Muse = {}; window.Muse.assets = {"required
     <div class="position_content temp_no_id" data-orig-id="page_position_content">
      <div class="clearfix colelem temp_no_id" data-orig-id="pu5481"><!-- group -->
       <div class="clip_frame grpelem temp_no_id" data-orig-id="u5481"><!-- image -->
-       <img class="block temp_no_id temp_no_img_src" data-orig-src="images/logo2.png?crc=3980200752" alt="" data-heightwidthratio="0.7484662576687117" data-image-width="163" data-image-height="122" data-orig-id="u5481_img" src="images/blank.gif?crc=4208392903"/>
+       <img class="block temp_no_id temp_no_img_src" data-orig-src="images/logo.png?crc=3980200752" alt="" data-heightwidthratio="0.7484662576687117" data-image-width="163" data-image-height="122" data-orig-id="u5481_img" src="images/blank.gif?crc=4208392903"/>
       </div>
       <a class="nonblock nontext grpelem temp_no_id" href="index.html" data-sizePolicy="fixed" data-pintopage="page_fluidx" data-orig-id="u5230-4"><!-- rasterized frame --><img class="temp_no_id temp_no_img_src" alt="Home" width="82" height="24" data-orig-src="images/u5230-45.png?crc=27326829" data-orig-id="u5230-4_img" src="images/blank.gif?crc=4208392903"/></a>
      </div>

diff --git a/css/nomq_iningsun.css b/css/nomq_iningsun.css
@@ -1,1 +1,1 @@
-#muse_css_mq{background-color:#FFFFFF;}#bp_infinity.active{display:block;}#page{min-height:1152px;max-width:1480px;}#ppu5481{z-index:0;margin-right:-10000px;margin-top:-76px;width:89.94%;margin-left:-5.28%;}#pu5481{width:64.69%;}#u5481{width:39.61%;}#u5169{margin-right:-10000px;margin-top:146px;width:14.17%;left:85.84%;}#pu5271{margin-top:26px;width:76.86%;margin-left:23.07%;}#u5271{margin-top:47px;width:91.21%;left:3.82%;}#u5391{-webkit-transform:matrix(0,-1,1,0,-144,169);-ms-transform:matrix(0,-1,1,0,-144,169);transform:matrix(0,-1,1,0,-144,169);margin-right:-10000px;margin-top:-131px;width:2.35%;left:48.39%;}#slideshowu5535{padding-bottom:0px;margin-top:46px;width:92.28%;left:3.82%;}#u5553popup{height:498px;}#pu5560-4{margin-top:34px;width:38.67%;margin-left:29.14%;}#u5560-4popup{width:21.37%;}#u5560-3{margin-left:12.78%;margin-right:12.779552715654951%;}#u5543-4popup{width:38.09%;margin-left:31.79%;}#u5543-3{margin-left:7.21%;margin-right:7.207207207207207%;}#u5552-4popup{width:22.74%;margin-left:77.27%;}#u5552-3{margin-left:12.02%;margin-right:12.012012012012011%;}#u5321{-webkit-transform:matrix(0.9945,-0.1045,0.1045,0.9945,-6,6);-ms-transform:matrix(0.9945,-0.1045,0.1045,0.9945,-6,6);transform:matrix(0.9945,-0.1045,0.1045,0.9945,-6,6);margin-top:23px;width:11.54%;left:0.88%;}#u5339{-webkit-transform:matrix(0.9945,-0.1045,0.1045,0.9945,-6,6);-ms-transform:matrix(0.9945,-0.1045,0.1045,0.9945,-6,6);transform:matrix(0.9945,-0.1045,0.1045,0.9945,-6,6);margin-top:437px;width:11.54%;left:87.98%;}#u5306{height:27px;-webkit-transform:matrix(0.6293,-0.7771,0.7771,0.6293,10,48);-ms-transform:matrix(0.6293,-0.7771,0.7771,0.6293,10,48);transform:matrix(0.6293,-0.7771,0.7771,0.6293,10,48);margin-top:38px;width:10.86%;left:-0.98%;}#u5366-6{margin-top:72px;width:35.62%;margin-left:42.83%;}#u5418-4{min-height:12px;margin-top:102px;width:18.04%;margin-left:6.62%;}#u5373{margin-top:314px;width:1.63%;left:84.67%;}#u5230-4{margin-top:24px;width:7.37%;left:88.38%;}#slideshowu5535_position_content,#u5321_img,#u5230-4_img{width:100%;}.css_verticalspacer .verticalspacer{height:calc(100vh - 1151px);}
+#muse_css_mq{background-color:#FFFFFF;}#bp_infinity.active{display:block;}#page{min-height:1152px;max-width:1480px;}#ppu5481{z-index:0;padding-bottom:0px;margin-right:-10000px;margin-top:-76px;width:89.94%;margin-left:-5.28%;}#pu5481{width:64.69%;}#u5481{width:39.61%;}#u5169{margin-right:-10000px;margin-top:146px;width:14.17%;left:85.84%;}#pu5271{margin-top:26px;width:76.86%;margin-left:23.07%;}#u5271{margin-top:47px;width:91.21%;left:3.82%;}#u5391{-webkit-transform:matrix(0,-1,1,0,-144,169);-ms-transform:matrix(0,-1,1,0,-144,169);transform:matrix(0,-1,1,0,-144,169);margin-right:-10000px;margin-top:-131px;width:2.35%;left:48.39%;}#slideshowu5535{padding-bottom:0px;margin-top:46px;width:92.28%;left:3.82%;}#u5553popup{height:498px;}#pu5560-4{margin-top:17px;width:34.33%;margin-left:32.95%;}#u5560-4popup{width:24.08%;}#u5560-3{margin-left:12.78%;margin-right:12.779552715654951%;}#u5543-4popup{width:42.91%;margin-left:28.71%;}#u5543-3{margin-left:7.21%;margin-right:7.207207207207207%;}#u5552-4popup{width:25.62%;margin-left:74.39%;}#u5552-3{margin-left:12.02%;margin-right:12.012012012012011%;}#u5321{-webkit-transform:matrix(0.9945,-0.1045,0.1045,0.9945,-6,6);-ms-transform:matrix(0.9945,-0.1045,0.1045,0.9945,-6,6);transform:matrix(0.9945,-0.1045,0.1045,0.9945,-6,6);margin-top:23px;width:11.54%;left:0.88%;}#u5339{-webkit-transform:matrix(0.9945,-0.1045,0.1045,0.9945,-6,6);-ms-transform:matrix(0.9945,-0.1045,0.1045,0.9945,-6,6);transform:matrix(0.9945,-0.1045,0.1045,0.9945,-6,6);margin-top:437px;width:11.54%;left:87.98%;}#u5306{height:27px;-webkit-transform:matrix(0.6293,-0.7771,0.7771,0.6293,10,48);-ms-transform:matrix(0.6293,-0.7771,0.7771,0.6293,10,48);transform:matrix(0.6293,-0.7771,0.7771,0.6293,10,48);margin-top:38px;width:10.86%;left:-0.98%;}#pu5418-4{z-index:20;margin-top:44px;width:70.18%;margin-left:12.78%;}#u5418-4{min-height:12px;margin-right:-10000px;margin-top:53px;width:25.7%;}#u5366-6{margin-right:-10000px;width:61.25%;left:38.76%;}#u5373{margin-top:314px;width:1.63%;left:84.67%;}#u5230-4{margin-top:24px;width:7.37%;left:88.38%;}#slideshowu5535_position_content,#u5321_img,#u5230-4_img{width:100%;}.css_verticalspacer .verticalspacer{height:calc(100vh - 1151px);}
